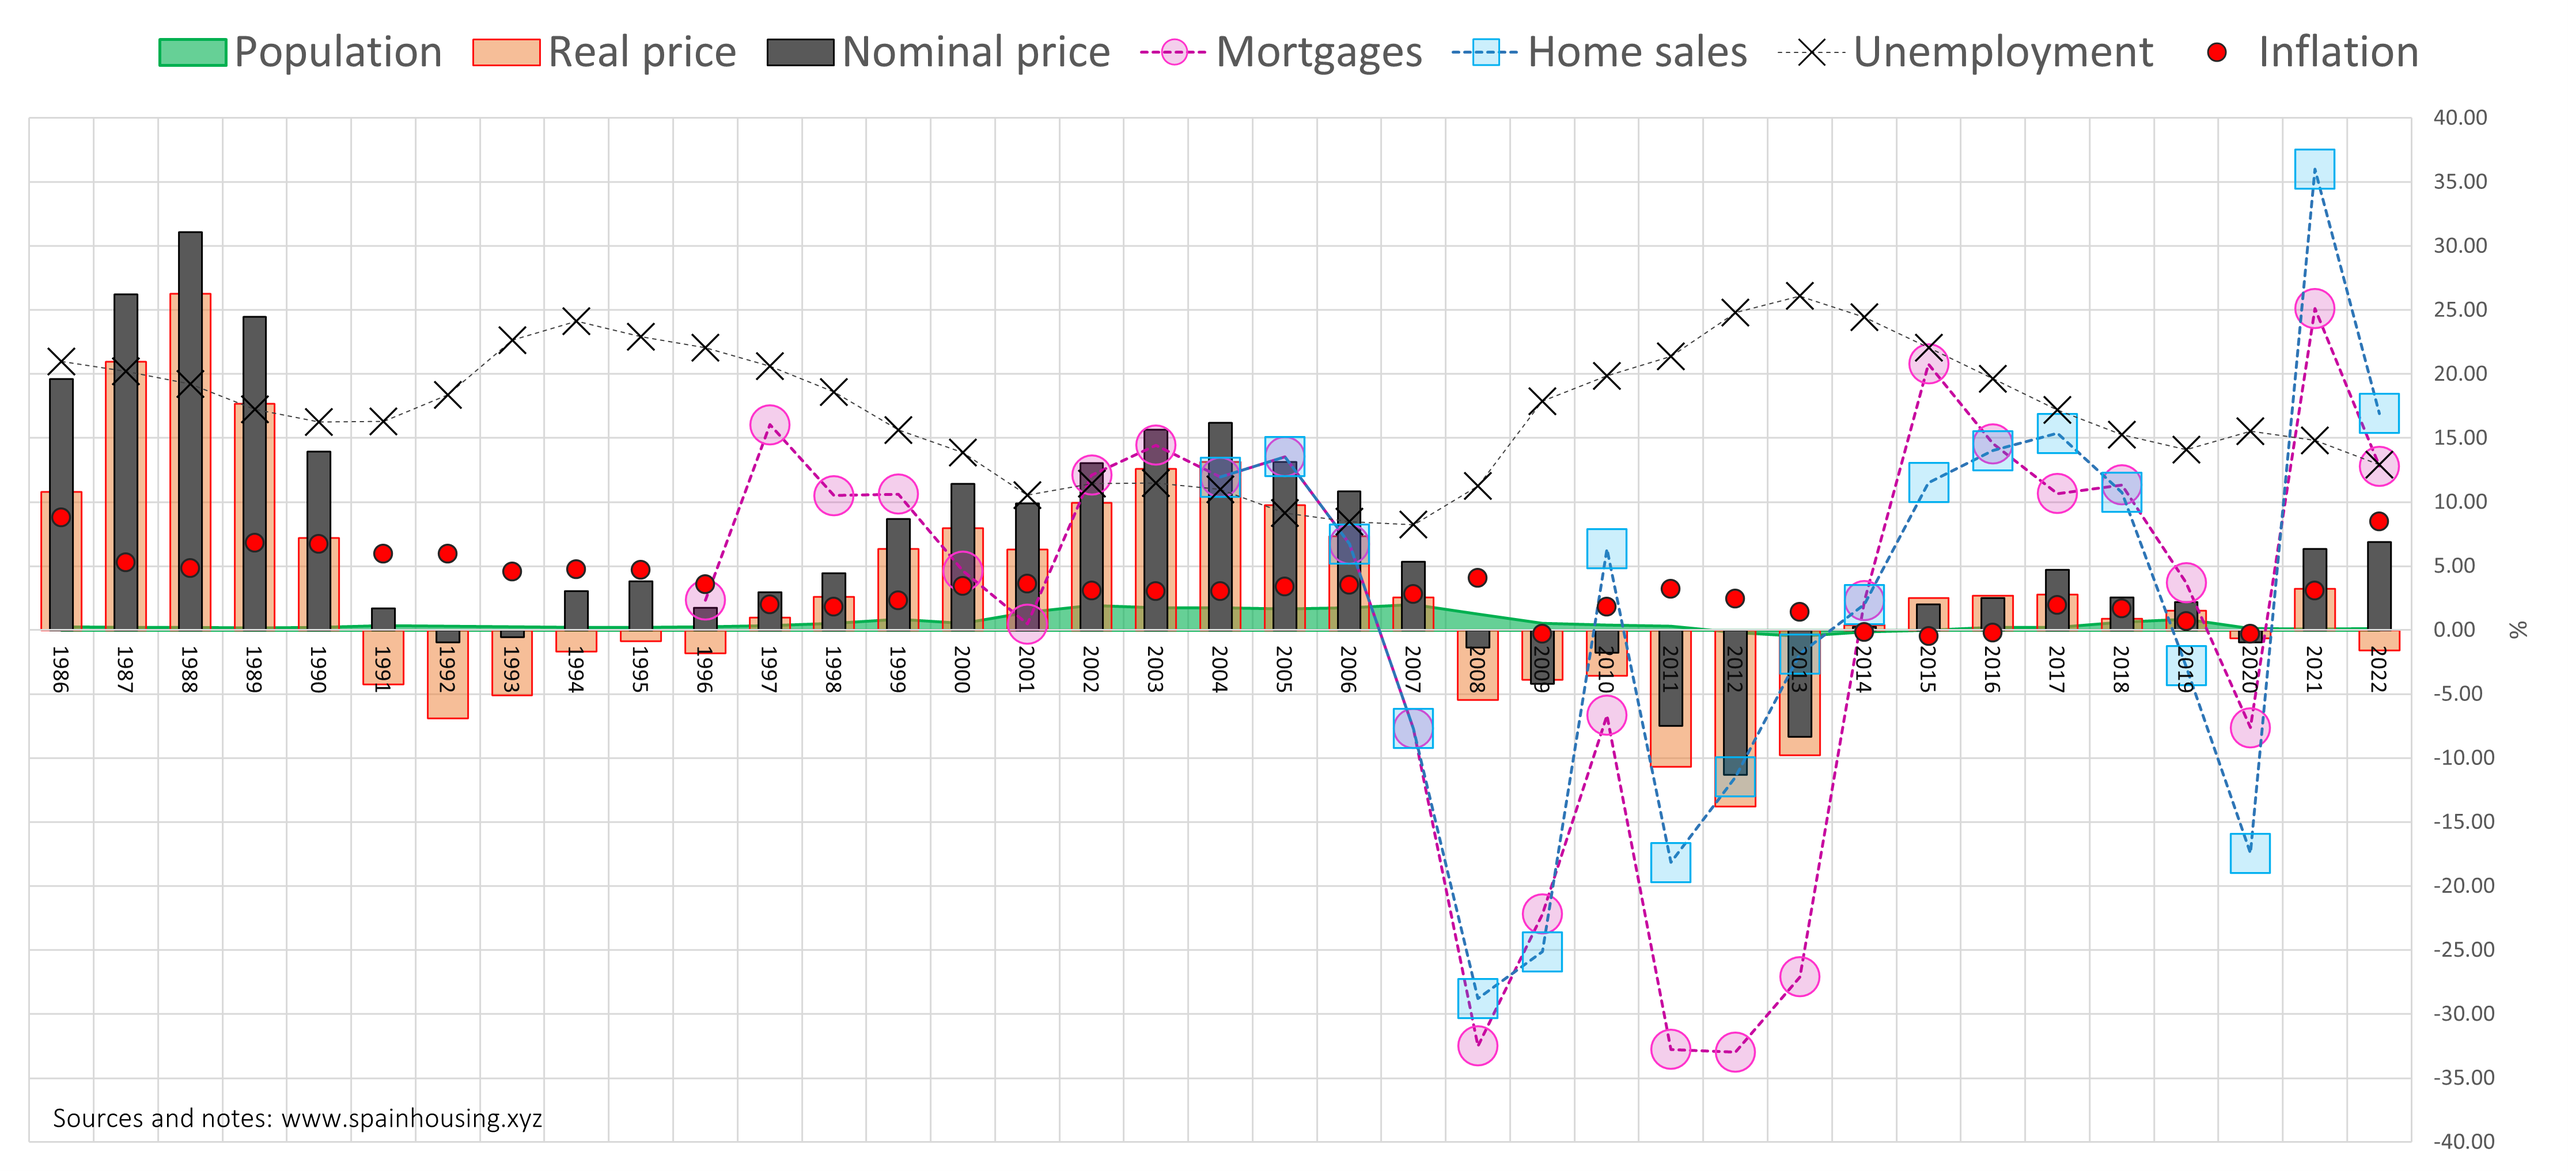
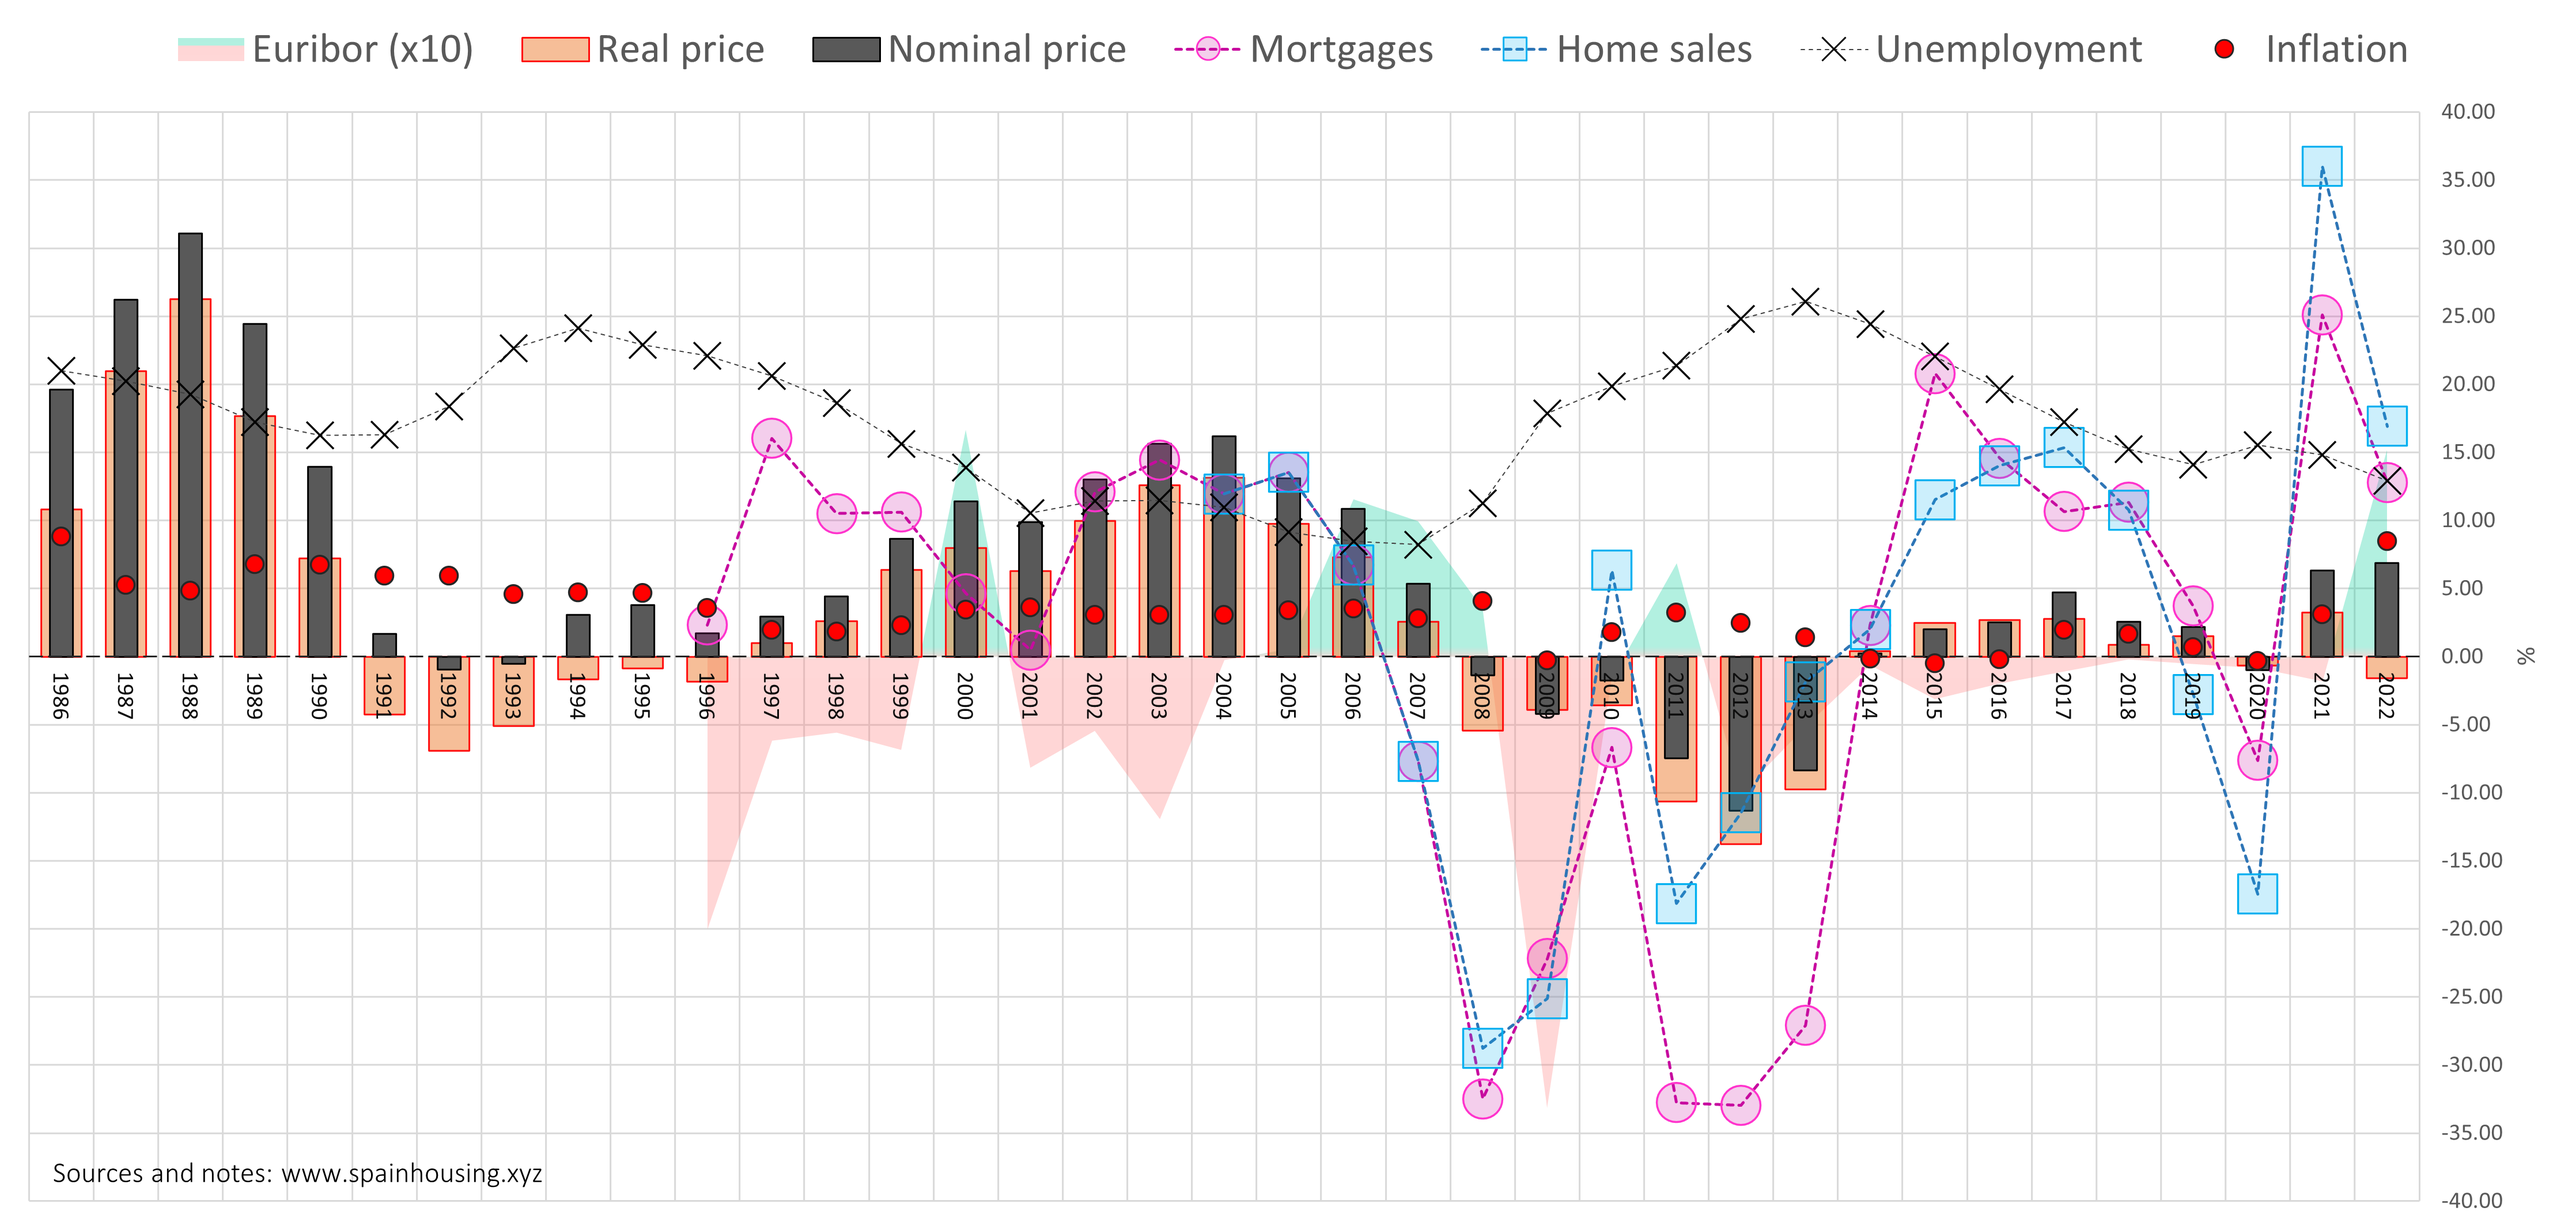
Update Multivariate

diff --git a/pages/posts/multivariate.md b/pages/posts/multivariate.md
@@ -12,7 +12,7 @@ import Image from 'next/image'
 
 [![Datos del mercado inmobiliario](/images/multivariate.png)](/images/multivariate.png)
 
-- The model groups together seven variables: nominal price, real price, sales, inflation, mortgages, population and employment.
+- The model groups together seven variables: nominal price, real price, sales, inflation, mortgages, euribor and employment.
 
 # Interpretation and observations
 
@@ -20,7 +20,7 @@ All variables are represented as a percentage. Some clarifications to facilitate
 
 - **Unemployment, Inflation**: average rate for the given year.
 - **Real price**[^1]: percentage difference between the nominal and the inflation rate.
-- **Population, Mortgages, Home sales, Nominal price**: percentage of annual change compared to the previous year.
+- **Mortgages, Euribor, Home sales, Nominal price**: percentage of annual change compared to the previous year. For the _Euribor_ data, the value has been multiplied by a factor of 10 for easier visualization (green = tight monetary policy; red = loose monetary policy).
 
 # Data sources
 
